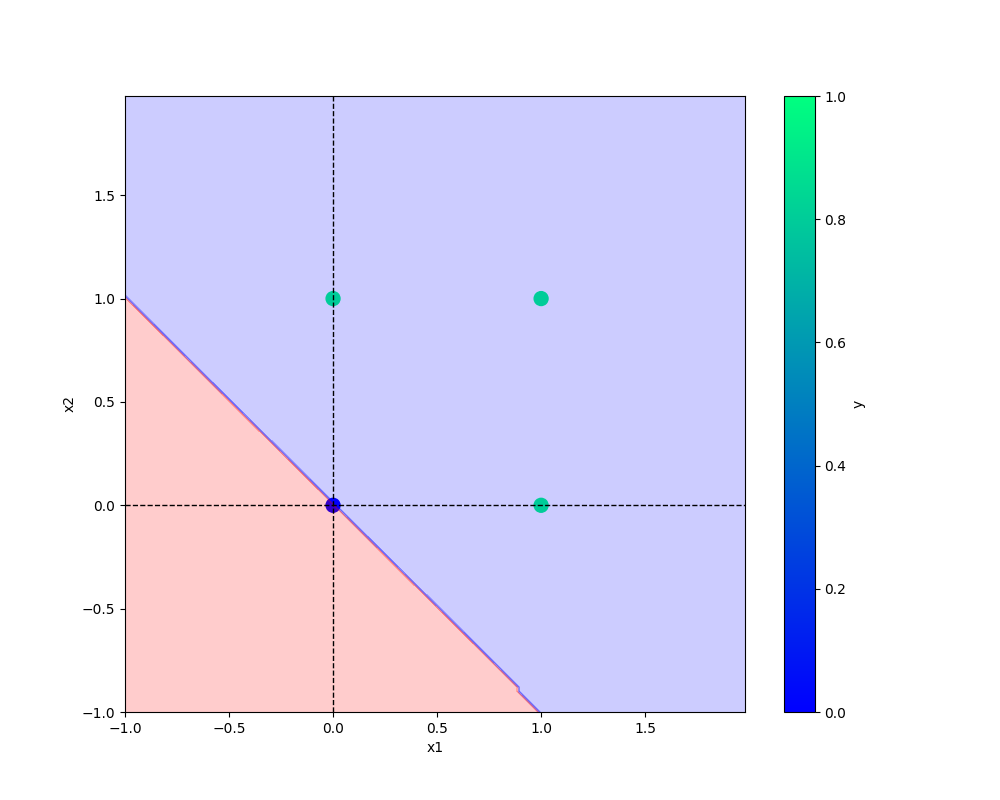
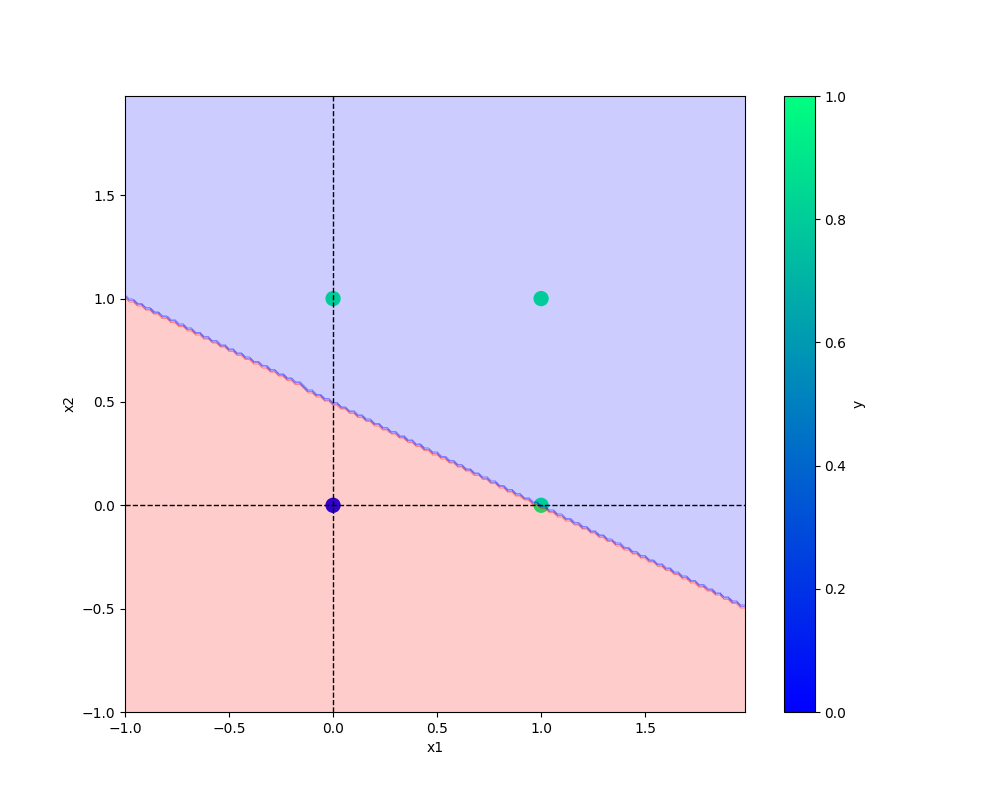
added logging module and progress bar

Changed region(s): [[0.124, 0.375, 0.744, 0.9062]]

diff --git a/and.py b/and.py
@@ -34,7 +34,7 @@ if __name__ == "__main__":
     }
 
     ETA = 0.3
-    EPOCHS = 1000
+    EPOCHS = 100
 
     try:
         logging.info("<<<<<<<< STARTED TRAINING >>>>>>>>")

diff --git a/or.py b/or.py
@@ -35,7 +35,7 @@ if __name__ == "__main__":
     }
 
     ETA = 0.3
-    EPOCHS = 1000
+    EPOCHS = 100
 
     try:
         logging.info("<<<<<<<< STARTED TRAINING >>>>>>>>")
